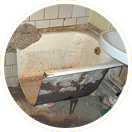
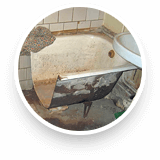
d

diff --git a/wp-content/themes/hlam/css/style6.css b/wp-content/themes/hlam/css/style6.css
@@ -22,15 +22,17 @@
 .xa-osush p{
 	text-align: center;
 	font-size: 24px;
-	padding-top: 25px;
 	font-family: "RobotoRegular";
     line-height: 22px;
 }
-.xa-design{
-    padding-left: -10px;
-}
+
 .xa-vbox{
 	text-align: center;
+    padding-top: 15px;
+}
+.xa-vbox img{
+    height: 230px;
+    width: auto;
 }
 .xa-box{
     margin-top: 0;
